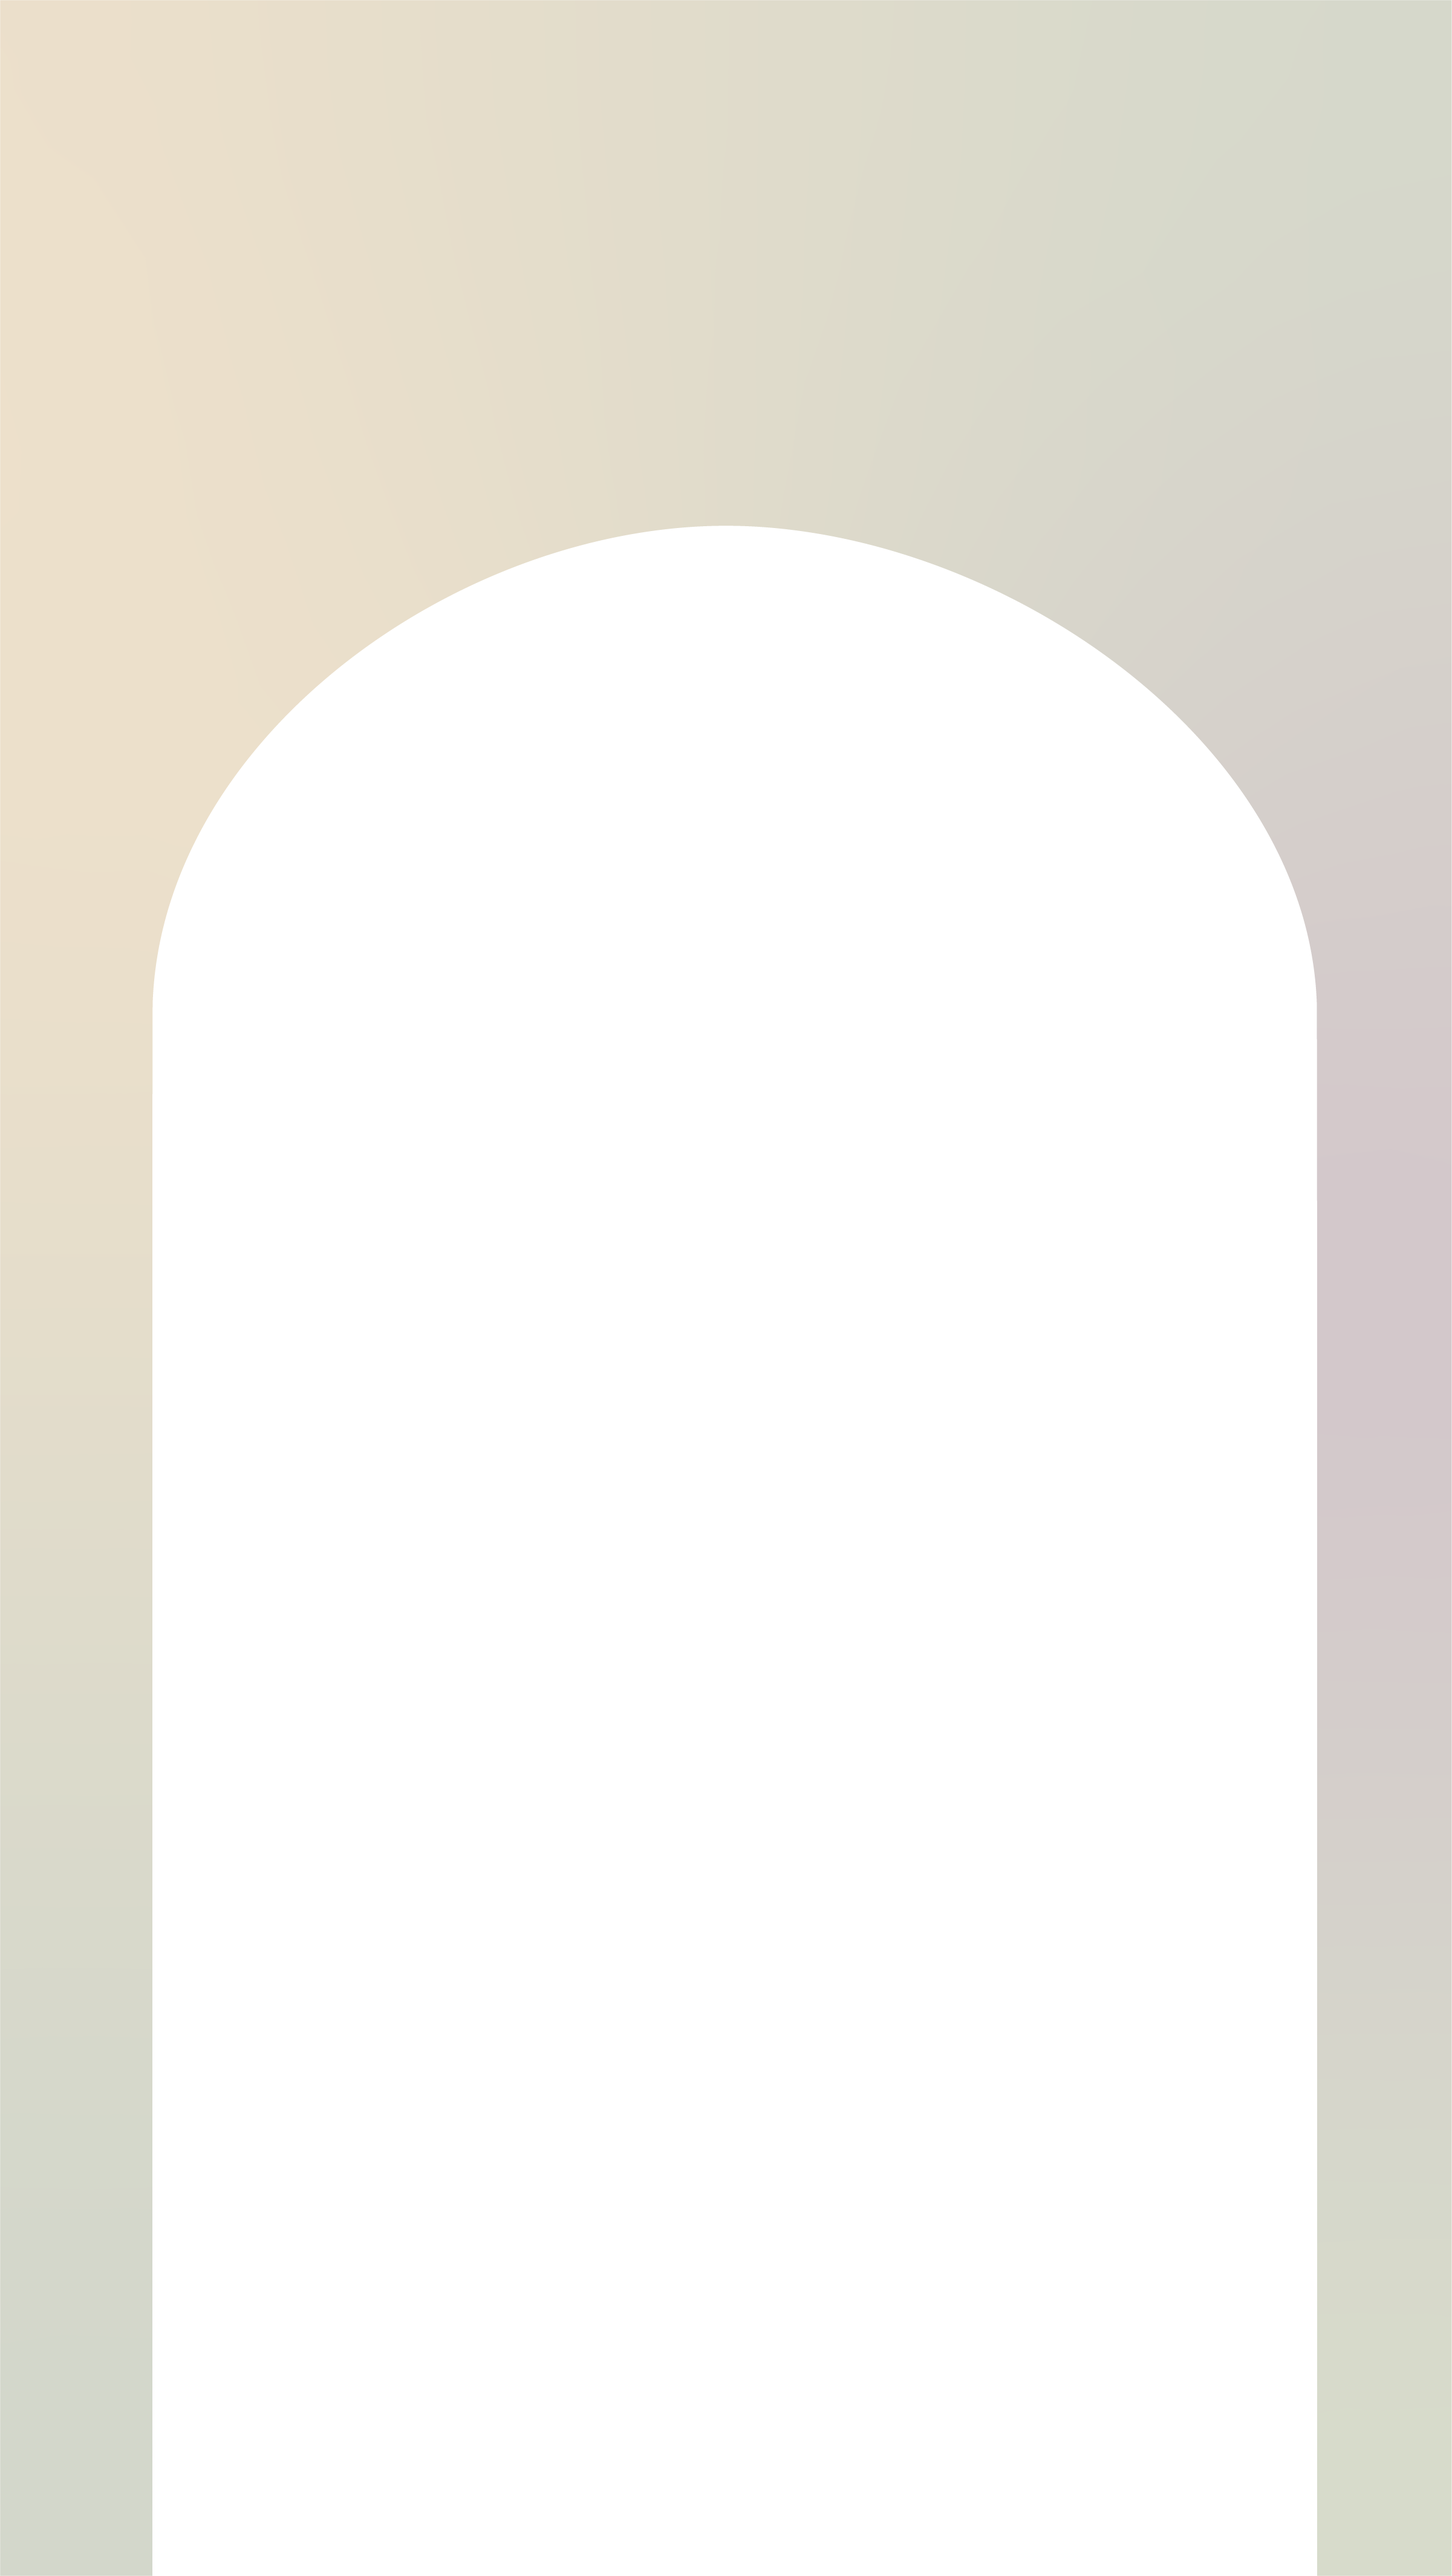
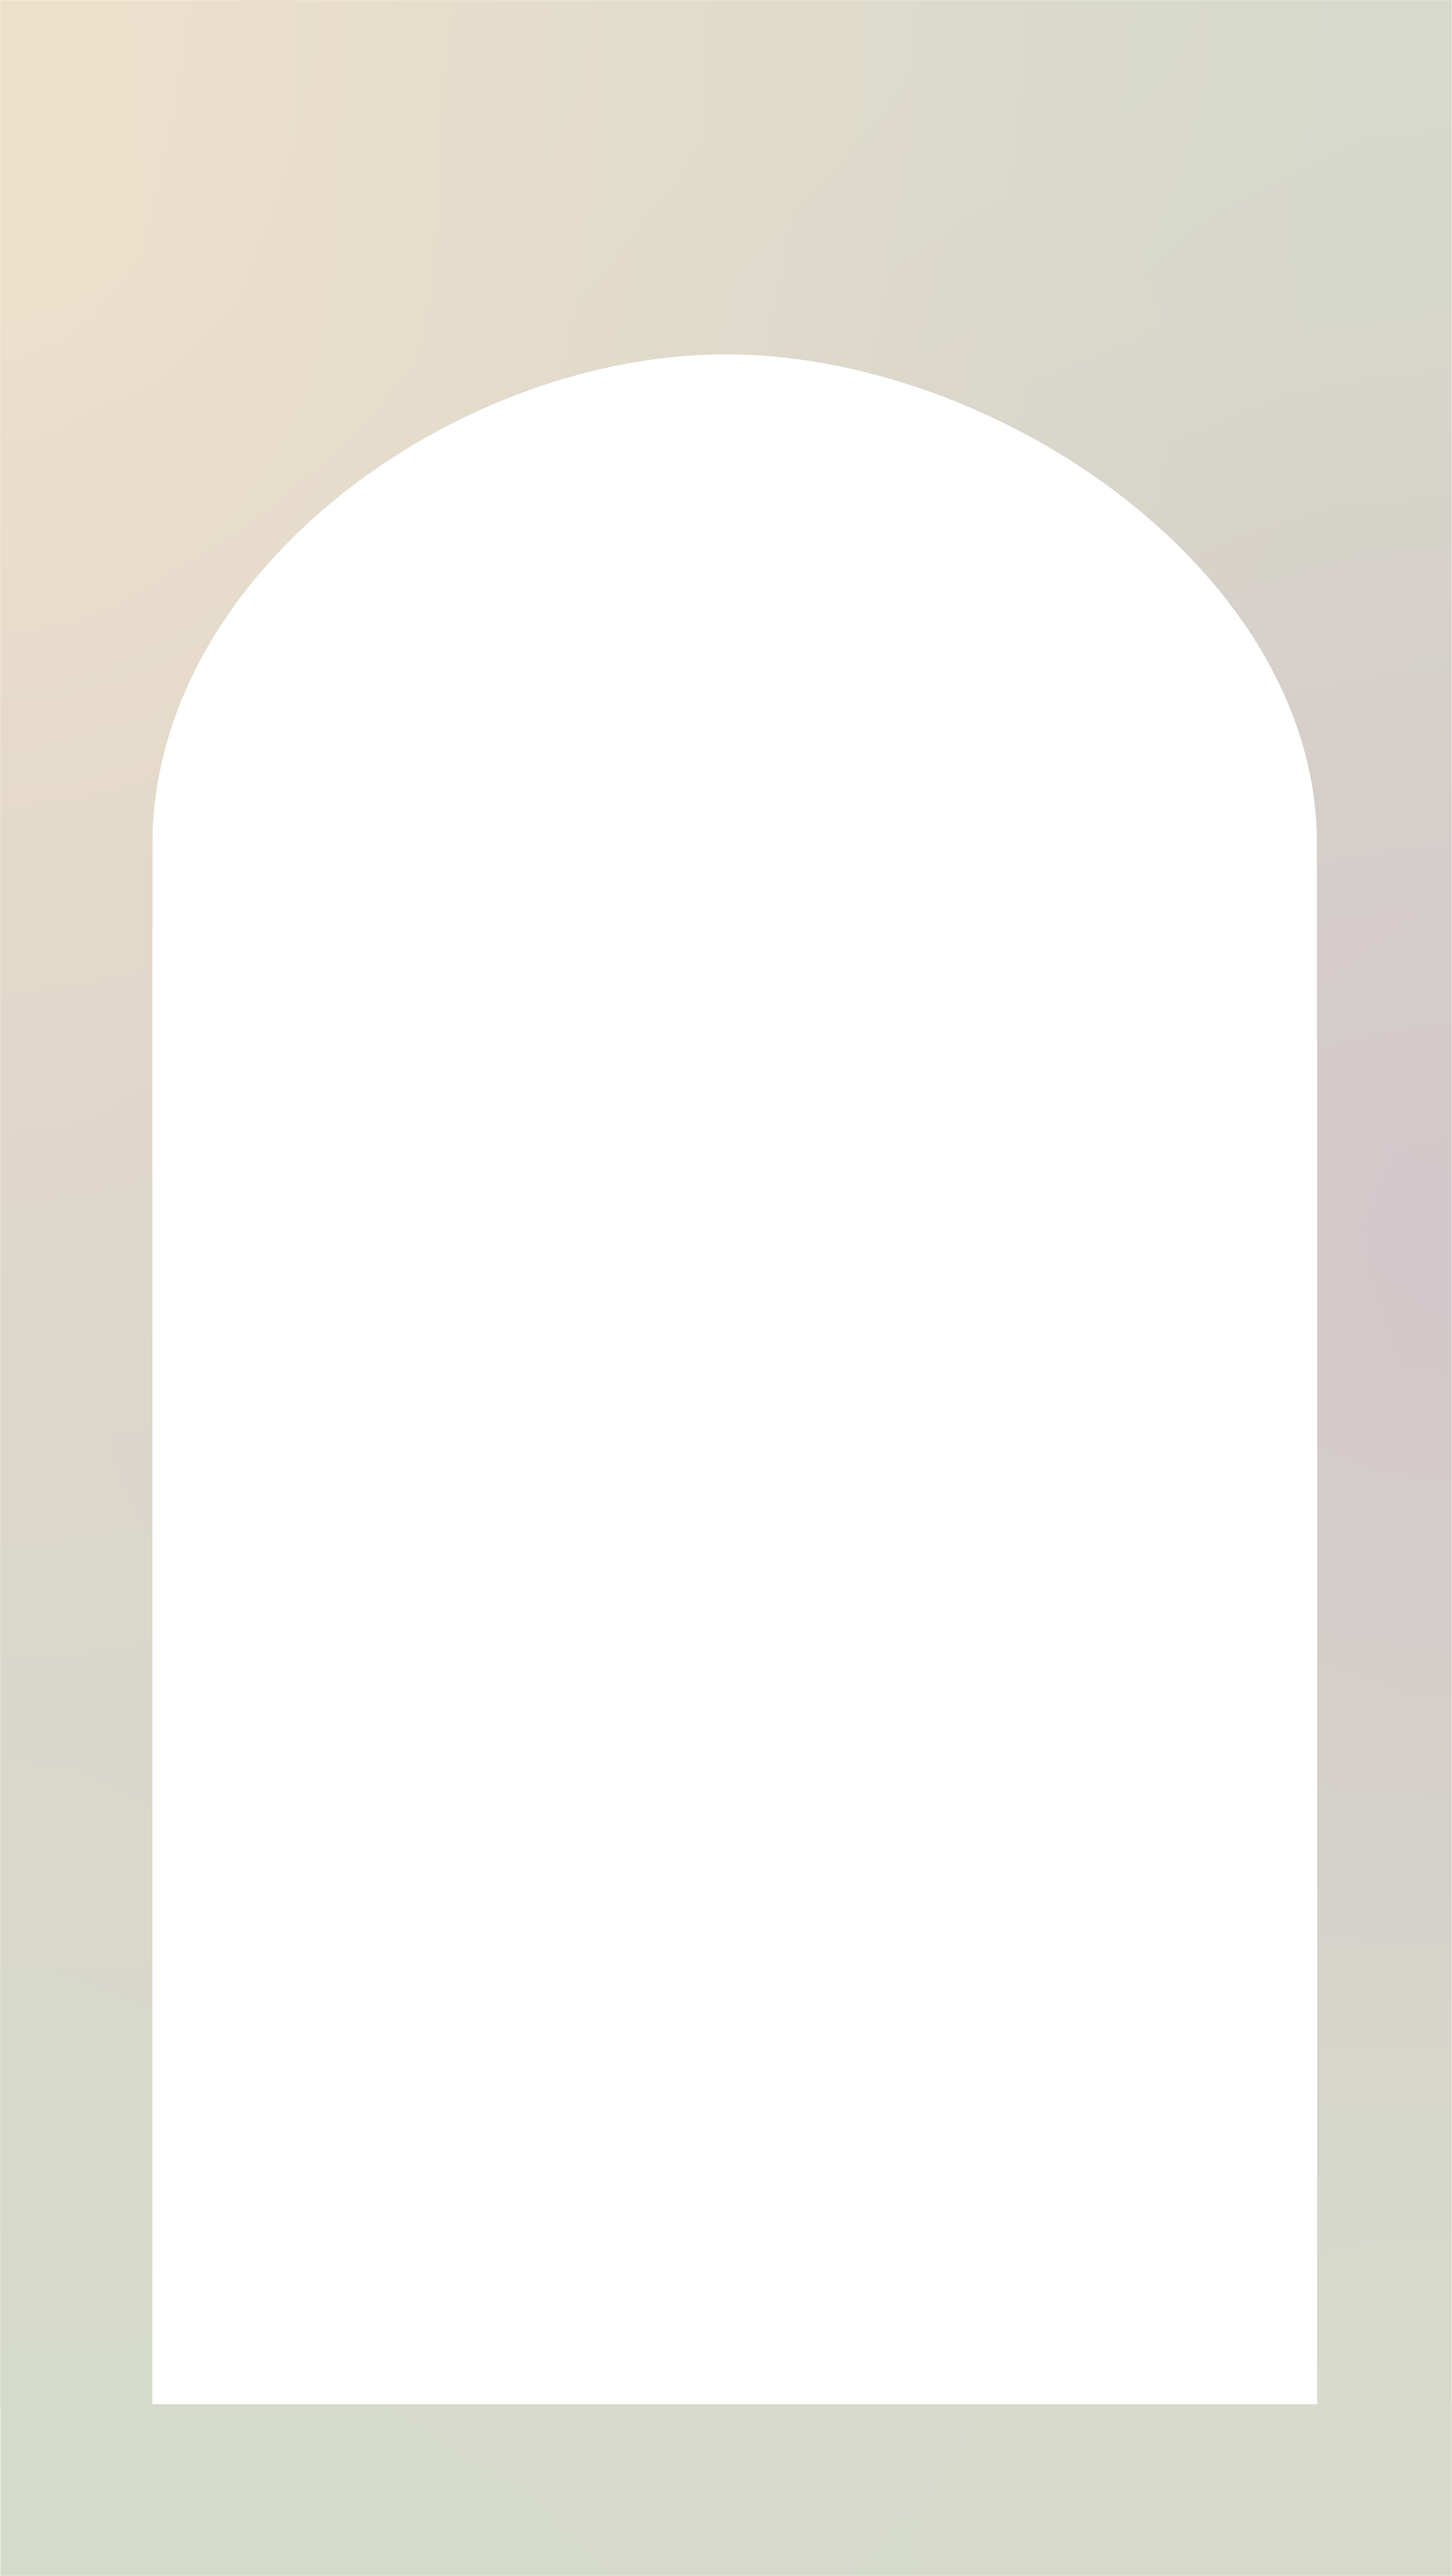
首頁第一屏RWD

Changed region(s): [[0.0937, 0.9056, 0.9059, 1.0], [0.0937, 0.1249, 0.9059, 0.3747]]

diff --git a/css/index.css b/css/index.css
@@ -67,7 +67,7 @@ div.logo_box{
 }
 @media screen and (max-width: 767px){
   div.logo_box{
-    margin-top: -500px;
+    margin-top: -400px;
   }
 }
 div.logo_box img.logo{
@@ -200,7 +200,7 @@ div.full_screen img.title{
 }
 @media screen and (max-width: 767px){
   div.full_screen img.title{
-    margin-top: -250px;
+    margin-top: -150px;
     max-width: 310px;
     max-height: 196px;
   }
